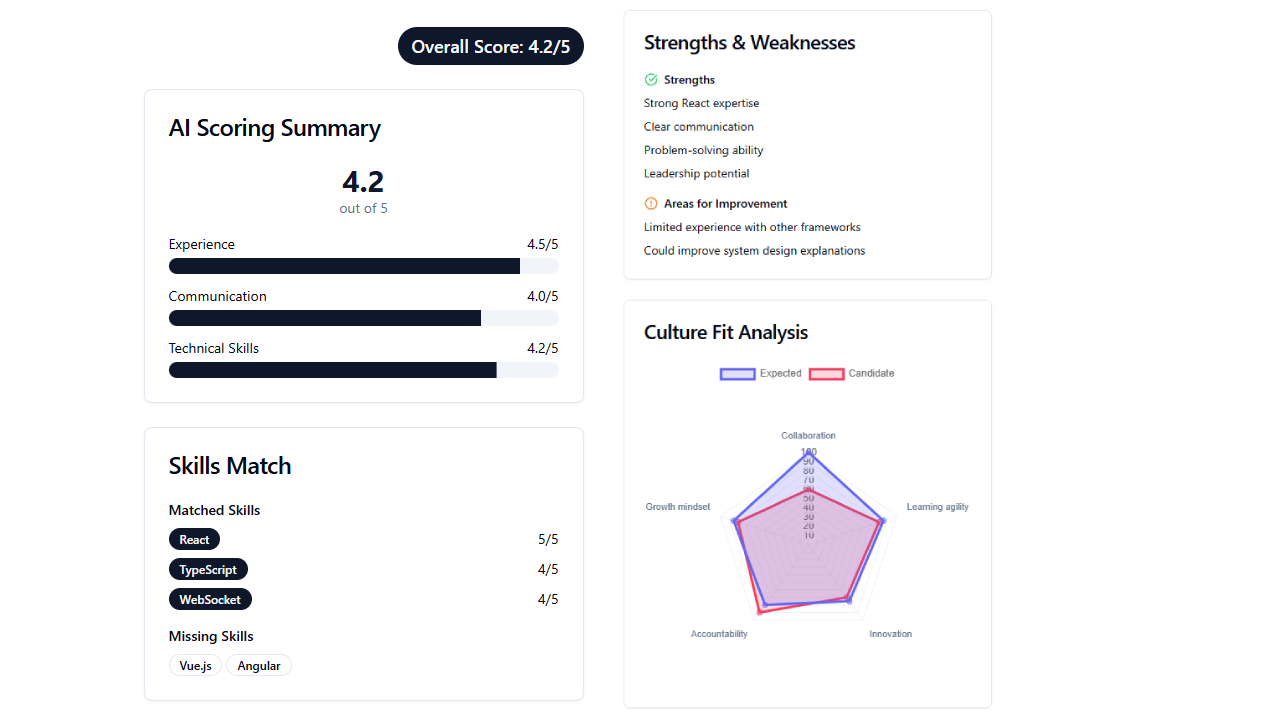
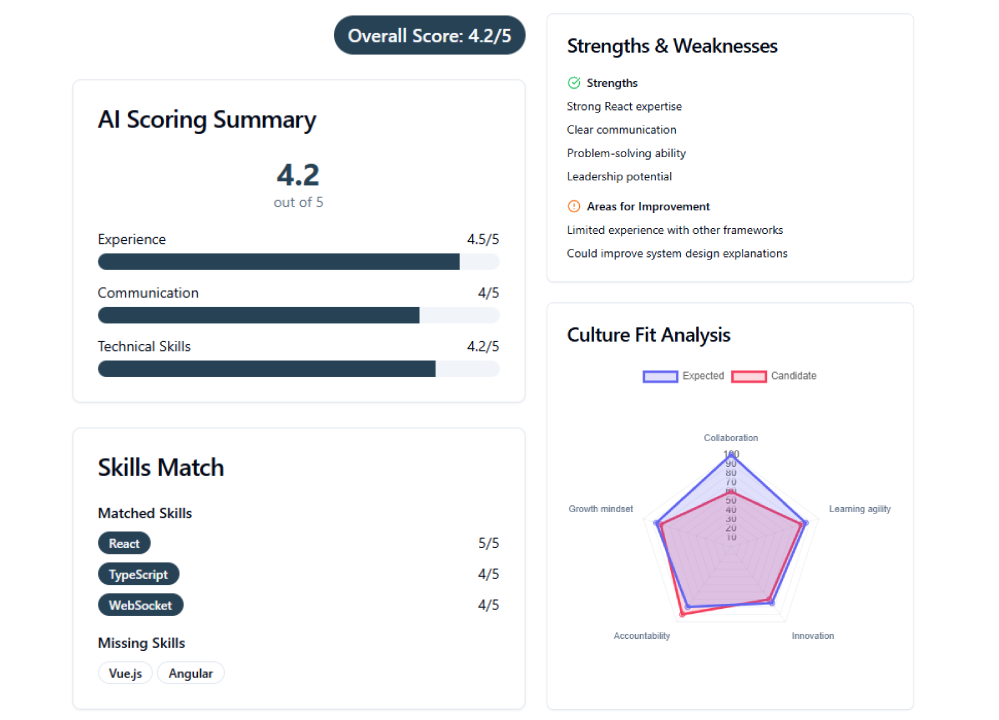
update

diff --git a/app/home/_components/Problem.tsx b/app/home/_components/Problem.tsx
@@ -46,10 +46,10 @@ export default function ProblemCarousel() {
   return (
     <section id="problem" className="py-16 bg-gray-100">
       <div className="text-center mb-12">
-  <h2 className="text-4xl font-bold text-slate-900 mb-6">Problem</h2>
+  <h2 className="text-4xl font-bold text-[#274254] mb-6">Problem</h2>
   <div className="grid grid-cols-1 sm:grid-cols-3 gap-8 max-w-4xl mx-auto">
     <div className="p-6 bg-white shadow-lg rounded-2xl flex flex-col h-full">
-      <p className="text-5xl font-bold">36%</p>
+      <p className="text-5xl font-bold text-[#274254]">36%</p>
       <p className="mt-2 text-slate-700">of candidates wait 1–2 months just to hear from HR</p>
       <a
     href="https://www.jobscore.com/articles/candidate-experience-statistics"
@@ -60,7 +60,7 @@ export default function ProblemCarousel() {
   </a>
     </div>
     <div className="p-6 bg-white shadow-lg rounded-2xl flex flex-col h-full">
-      <p className="text-5xl font-bold">75%</p>
+      <p className="text-5xl font-bold text-[#274254]">75%</p>
       <p className="mt-2 text-slate-700">never hear back after applying</p>
       <a
     href="https://www.prnewswire.com/news-releases/seventy-five-percent-of-workers-who-applied-to-jobs-through-various-venues-in-the-last-year-didnt-hear-back-from-employers-careerbuilder-survey-finds-191990281.html"
@@ -71,7 +71,7 @@ export default function ProblemCarousel() {
   </a>
     </div>
     <div className="p-6 bg-white shadow-lg rounded-2xl flex flex-col h-full">
-  <p className="text-5xl font-bold">200+</p>
+  <p className="text-5xl font-bold text-[#274254]">200+</p>
   <p className="mt-2 text-slate-700">
     applicants per job and recruiters spend only 6–8 seconds scanning each resume
   </p>

diff --git a/app/home/_components/Solution.tsx b/app/home/_components/Solution.tsx
@@ -35,12 +35,12 @@ export default function Soultion() {
     return (
         <section id="product" className="mt-32 mb-32">
             <div className="text-center mb-12">
-                <h1 className="text-5xl font-bold text-slate-900">Product</h1>
+                <h1 className="text-5xl font-bold text-[#274254]">Product</h1>
             </div>
-            <h2 className="text-4xl font-bold text-slate-900 text-center">Hirenz</h2>
-            <img className="w-[98%] lg:w-[60%] object-cover mx-auto mt-5 rounded-xl shadow-xl mb-15" src="/image/C_mainpage.png" />
+            <h2 className="text-4xl font-bold text-[#274254] text-center">Hirenz</h2>
+            <img className="w-[98%] lg:w-[60%] object-cover mx-auto mt-5 rounded-xl shadow-xl mb-15" src="/image/preview.gif" />
             <div className="flex justify-center mt-5 mb-5">
-                <a href="#contact" className="bg-slate-900 text-white px-6 py-3 rounded-full font-semibold hover:bg-slate-800 transition shadow-xl">
+                <a href="#contact" className="bg-[#274254] text-white px-6 py-3 rounded-full font-semibold hover:bg-slate-800 transition shadow-xl">
             Request Demo
           </a>
             </div>

diff --git a/component/TitleHome.tsx b/component/TitleHome.tsx
@@ -6,14 +6,14 @@ export default function TitleHome() {
     <section className="h-screen flex items-center justify-center">
       <div className="max-w-4xl text-center">
         <img src="/image/icon.png" alt="HIRENZ logo" className="mx-auto mb-2 h-50 w-50" />
-        <h1 className="text-5xl md:text-6xl font-bold text-slate-900">
+        <h1 className="text-5xl md:text-6xl font-bold text-[#274254]">
           Hirenz
         </h1>
-        <p className="mt-6 text-lg md:text-xl text-slate-900">
+        <p className="mt-6 text-lg md:text-xl text-[#274254]">
           An AI-powered digital hiring platform, crafted for forward-thinking HR teams that value speed, accuracy, and smart decision-making.
         </p>
         <div className="mt-8 flex justify-center space-x-4">
-          <a href="#contact" className="bg-slate-900 text-white px-6 py-3 rounded-full font-semibold hover:bg-slate-800 transition shadow-xl">
+          <a href="#contact" className="bg-[#274254] text-white px-6 py-3 rounded-full font-semibold hover:bg-slate-800 transition shadow-xl">
             Request Demo
           </a>
         </div>

diff --git a/component/NavBar.tsx b/component/NavBar.tsx
@@ -61,7 +61,7 @@ export default function Navbar() {
             <li
               key={index}
               className={`mr-5 ${
-                activeSection === link.path ? 'bg-slate-900 text-white rounded-md' : ''
+                activeSection === link.path ? 'bg-[#274254] text-white rounded-md' : ''
               }`}
             >
               <a href={link.path} onClick={() => {
@@ -101,7 +101,7 @@ export default function Navbar() {
               <li
                 key={index}
                 className={`${
-                  activeSection === link.path ? 'bg-slate-900 text-white rounded-md' : ''
+                  activeSection === link.path ? 'bg-[#274254] text-white rounded-md' : ''
                 }`}
               >
                 <a href={link.path} onClick={() => {
